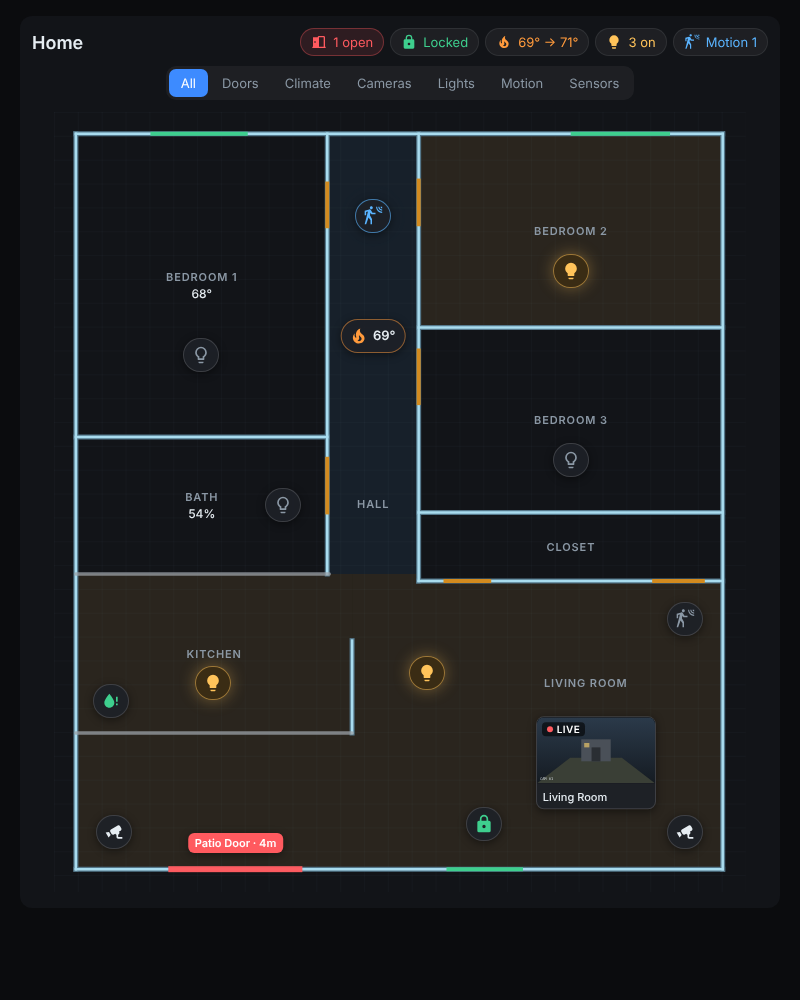
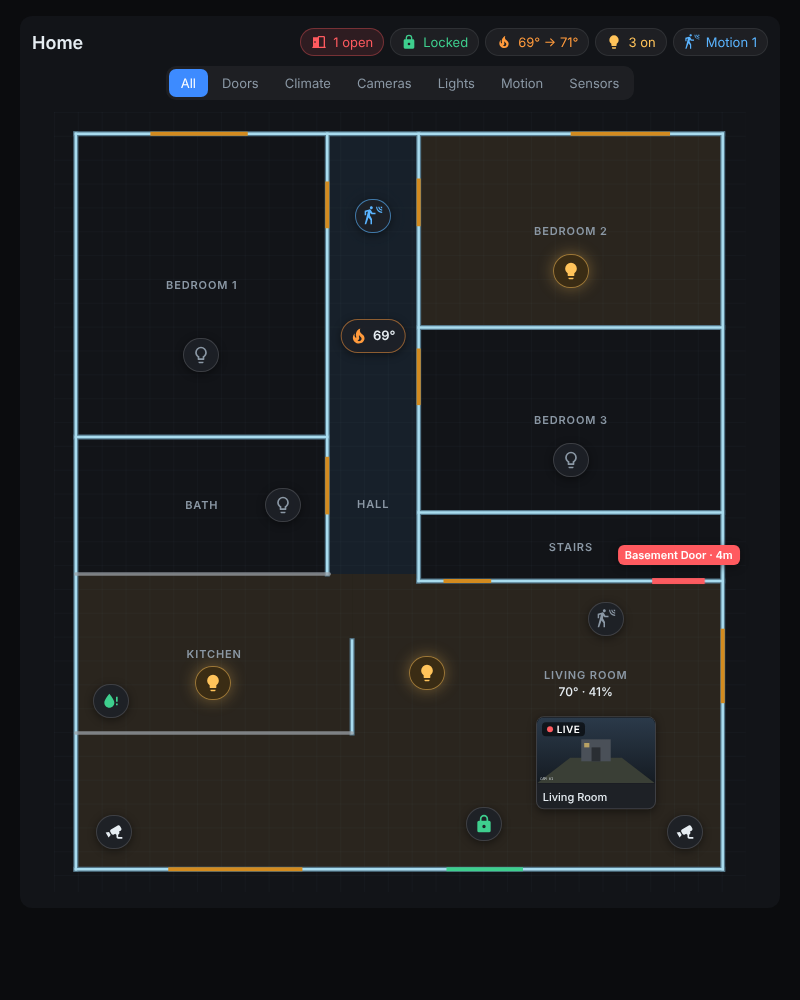
Add basement stairs, side door and real door/temperature sensors

diff --git a/home-view-card.js b/home-view-card.js
@@ -1,4 +1,4 @@
-const VERSION = "0.1.1";
+const VERSION = "0.1.2";
 
 const ICON = {
   door: "M8,3C6.89,3 6,3.89 6,5V21H18V5C18,3.89 17.11,3 16,3H8M8,5H16V19H8V5M13,11V13H15V11H13Z",
@@ -26,7 +26,7 @@ const ICON = {
   help: "M11,18H13V16H11V18M12,2A10,10 0 0,0 2,12A10,10 0 0,0 12,22A10,10 0 0,0 22,12A10,10 0 0,0 12,2M12,20C7.59,20 4,16.41 4,12C4,7.59 7.59,4 12,4C16.41,4 20,7.59 20,12C20,16.41 16.41,20 12,20M12,6A4,4 0 0,0 8,10H10A2,2 0 0,1 12,8A2,2 0 0,1 14,10C14,12 11,11.75 11,15H13C13,12.75 16,12.5 16,10A4,4 0 0,0 12,6Z",
 };
 
-const DEFAULT_PLAN = {view_box:[55,25,696,785],rooms:[{name:"Bedroom 1",rect:[77,47,330,352]},{name:"Bath",rect:[77,352,330,490]},{name:"Hall",rect:[330,47,422,490],label_at:[376,420]},{name:"Bedroom 2",rect:[422,47,728,242]},{name:"Bedroom 3",rect:[422,242,728,428]},{name:"Closet",rect:[422,428,728,497]},{name:"Kitchen",rect:[77,490,355,650]},{name:"Living Room",points:[[355,490],[422,490],[422,497],[728,497],[728,787],[77,787],[77,650],[355,650]],label_at:[590,600]}],walls:[[77,47,728,47],[728,47,728,787],[728,787,77,787],[77,787,77,47],[330,47,330,490],[77,352,330,352],[422,47,422,497],[422,242,728,242],[422,428,728,428],[422,497,728,497],[355,557,355,650]],half_walls:[[77,490,332,490],[77,650,355,650]],openings:[{name:"Front Door",type:"door",line:[450,787,527,787]},{name:"Patio Door",type:"door",line:[170,787,305,787]},{name:"Bedroom 1 Window",type:"window",line:[152,47,250,47]},{name:"Bedroom 2 Window",type:"window",line:[575,47,675,47]},{name:"Bedroom 1 Door",line:[330,95,330,142]},{name:"Bath Door",line:[330,372,330,430]},{name:"Bedroom 2 Door",line:[422,92,422,140]},{name:"Bedroom 3 Door",line:[422,263,422,320]},{name:"Closet Door",line:[447,497,495,497]},{name:"Closet Door",line:[657,497,710,497]}]};
+const DEFAULT_PLAN = {view_box:[55,25,696,785],rooms:[{name:"Bedroom 1",rect:[77,47,330,352]},{name:"Bath",rect:[77,352,330,490]},{name:"Hall",rect:[330,47,422,490],label_at:[376,420]},{name:"Bedroom 2",rect:[422,47,728,242]},{name:"Bedroom 3",rect:[422,242,728,428]},{name:"Stairs",rect:[422,428,728,497]},{name:"Kitchen",rect:[77,490,355,650]},{name:"Living Room",points:[[355,490],[422,490],[422,497],[728,497],[728,787],[77,787],[77,650],[355,650]],label_at:[590,600]}],walls:[[77,47,728,47],[728,47,728,787],[728,787,77,787],[77,787,77,47],[330,47,330,490],[77,352,330,352],[422,47,422,497],[422,242,728,242],[422,428,728,428],[422,497,728,497],[355,557,355,650]],half_walls:[[77,490,332,490],[77,650,355,650]],openings:[{name:"Front Door",type:"door",line:[450,787,527,787]},{name:"Patio Door",type:"door",line:[170,787,305,787]},{name:"Side Door",type:"door",line:[728,545,728,620]},{name:"Bedroom 1 Window",type:"window",line:[152,47,250,47]},{name:"Bedroom 2 Window",type:"window",line:[575,47,675,47]},{name:"Bedroom 1 Door",line:[330,95,330,142]},{name:"Bath Door",line:[330,372,330,430]},{name:"Bedroom 2 Door",line:[422,92,422,140]},{name:"Bedroom 3 Door",line:[422,263,422,320]},{name:"Closet Door",line:[447,497,495,497]},{name:"Basement Door",type:"door",line:[657,497,710,497]}]};
 
 const OPEN_STATES = new Set(["on", "open", "opening", "closing", "unlocked", "unlocking", "jammed"]);
 const DEAD_STATES = new Set(["unavailable", "unknown"]);

diff --git a/demo/index.html b/demo/index.html
@@ -28,10 +28,8 @@ const ago = (min) => new Date(Date.now() - min * 60000).toISOString();
 const st = (state, attributes = {}, min = 12) => ({ state, attributes, last_changed: ago(min) });
 
 const states = {
-  "binary_sensor.front_door": st("off", { device_class: "door", friendly_name: "Front Door" }, 40),
-  "binary_sensor.patio_door": st("on", { device_class: "door", friendly_name: "Patio Door" }, 4),
-  "binary_sensor.bedroom_1_window": st("off", { device_class: "window", friendly_name: "Bedroom 1 Window" }),
-  "binary_sensor.bedroom_2_window": st("off", { device_class: "window", friendly_name: "Bedroom 2 Window" }),
+  "binary_sensor.door_front_contact": st("off", { device_class: "door", friendly_name: "Front Door" }, 40),
+  "binary_sensor.door_basement_contact": st("on", { device_class: "door", friendly_name: "Basement Door" }, 4),
   "binary_sensor.hallway_motion": st("on", { device_class: "motion", friendly_name: "Hallway Motion" }, 1),
   "binary_sensor.living_room_motion": st("off", { device_class: "motion", friendly_name: "Living Room Motion" }),
   "binary_sensor.kitchen_leak": st("off", { device_class: "moisture", friendly_name: "Kitchen Leak" }),
@@ -46,8 +44,8 @@ const states = {
   "light.bedroom_3": st("off", { friendly_name: "Bedroom 3 Light" }),
   "light.kitchen": st("on", { friendly_name: "Kitchen Light", brightness: 255 }),
   "light.living_room": st("on", { friendly_name: "Living Room Light", brightness: 140 }),
-  "sensor.bedroom_1_temperature": st("68.4", { device_class: "temperature", unit_of_measurement: "°F" }),
-  "sensor.bathroom_humidity": st("54", { device_class: "humidity", unit_of_measurement: "%" }),
+  "sensor.temp_livingrm_temperature": st("70.2", { device_class: "temperature", unit_of_measurement: "°F" }),
+  "sensor.temp_livingrm_humidity": st("41", { device_class: "humidity", unit_of_measurement: "%" }),
 };
 
 const card = document.getElementById("card");
@@ -83,7 +81,7 @@ window.addEventListener("hass-more-info", (e) => {
   dlg.showModal();
 });
 
-const flip = ["binary_sensor.front_door", "binary_sensor.living_room_motion", "binary_sensor.bedroom_2_window"];
+const flip = ["binary_sensor.door_front_contact", "binary_sensor.living_room_motion"];
 setInterval(() => {
   const id = flip[Math.floor(Math.random() * flip.length)];
   states[id] = { ...states[id], state: states[id].state === "on" ? "off" : "on", last_changed: new Date().toISOString() };
